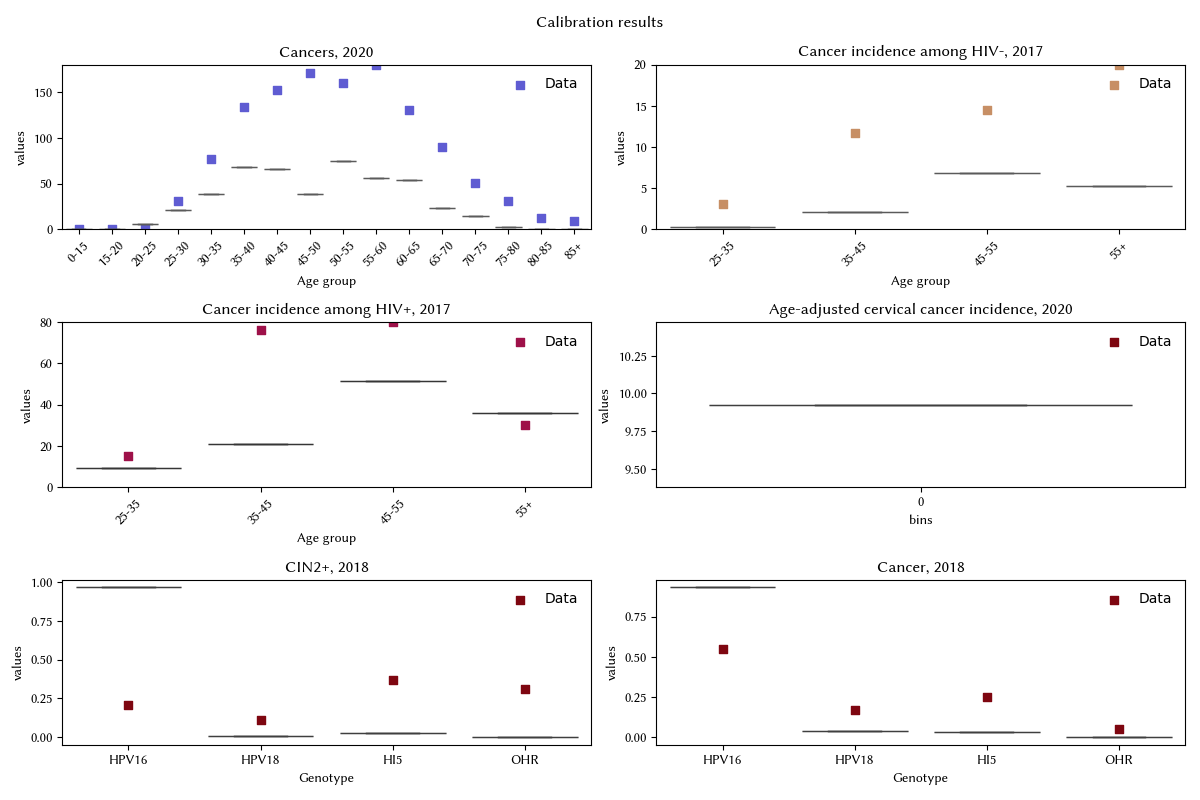
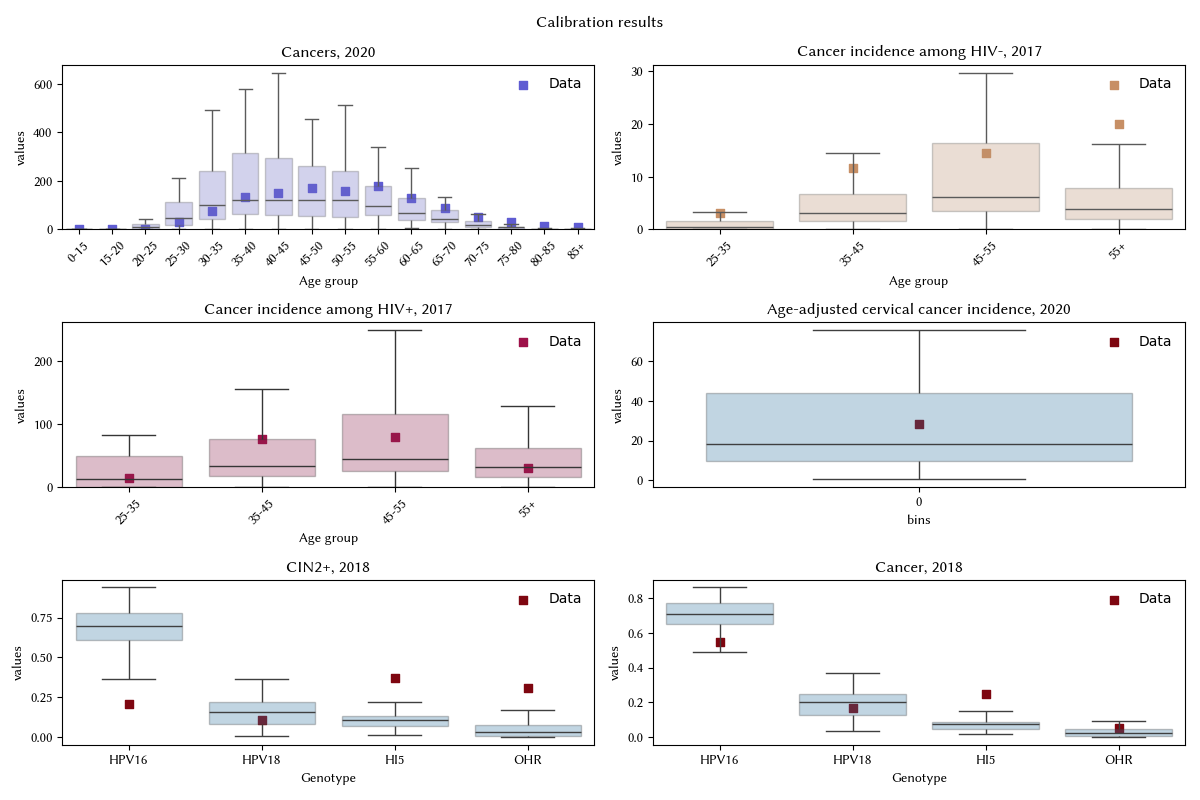
redo plots

diff --git a/run_calibration_hiv.py b/run_calibration_hiv.py
@@ -31,8 +31,8 @@ import utils as ut
 
 # CONFIGURATIONS TO BE SET BY USERS BEFORE RUNNING
 to_run = [
-    'run_calibration',  # Make sure this is uncommented if you want to _run_ the calibrations (usually on VMs)
-    # 'plot_calibration',  # Make sure this is uncommented if you want to _plot_ the calibrations (usually locally)
+    # 'run_calibration',  # Make sure this is uncommented if you want to _run_ the calibrations (usually on VMs)
+    'plot_calibration',  # Make sure this is uncommented if you want to _plot_ the calibrations (usually locally)
 ]
 debug = False  # If True, this will do smaller runs that can be run locally for debugging
 do_save = True
@@ -47,7 +47,7 @@ storage = None
 ########################################################################
 def run_calib(n_trials=None, n_workers=None, do_plot=False, do_save=True, filestem=''):
 
-    sim = rs.make_sim(calib=True, add_vax=True)
+    sim = rs.make_sim(calib=True)
 
     dataloc = 'data/rwanda'  # Location of data files
     datafiles = [
@@ -136,7 +136,7 @@ def load_calib(do_plot=True, filestem=''):
     if do_plot:
         sc.fonts(add=sc.thisdir(aspath=True) / 'Libertinus Sans')
         sc.options(font='Libertinus Sans')
-        fig = calib.plot(res_to_plot=200, plot_type='sns.boxplot', do_save=False)
+        fig = calib.plot(res_to_plot=100, plot_type='sns.boxplot', do_save=False)
         fig.suptitle(f'Calibration results')
         fig.tight_layout()
         fig.savefig(f'figures/{filename}.png')
